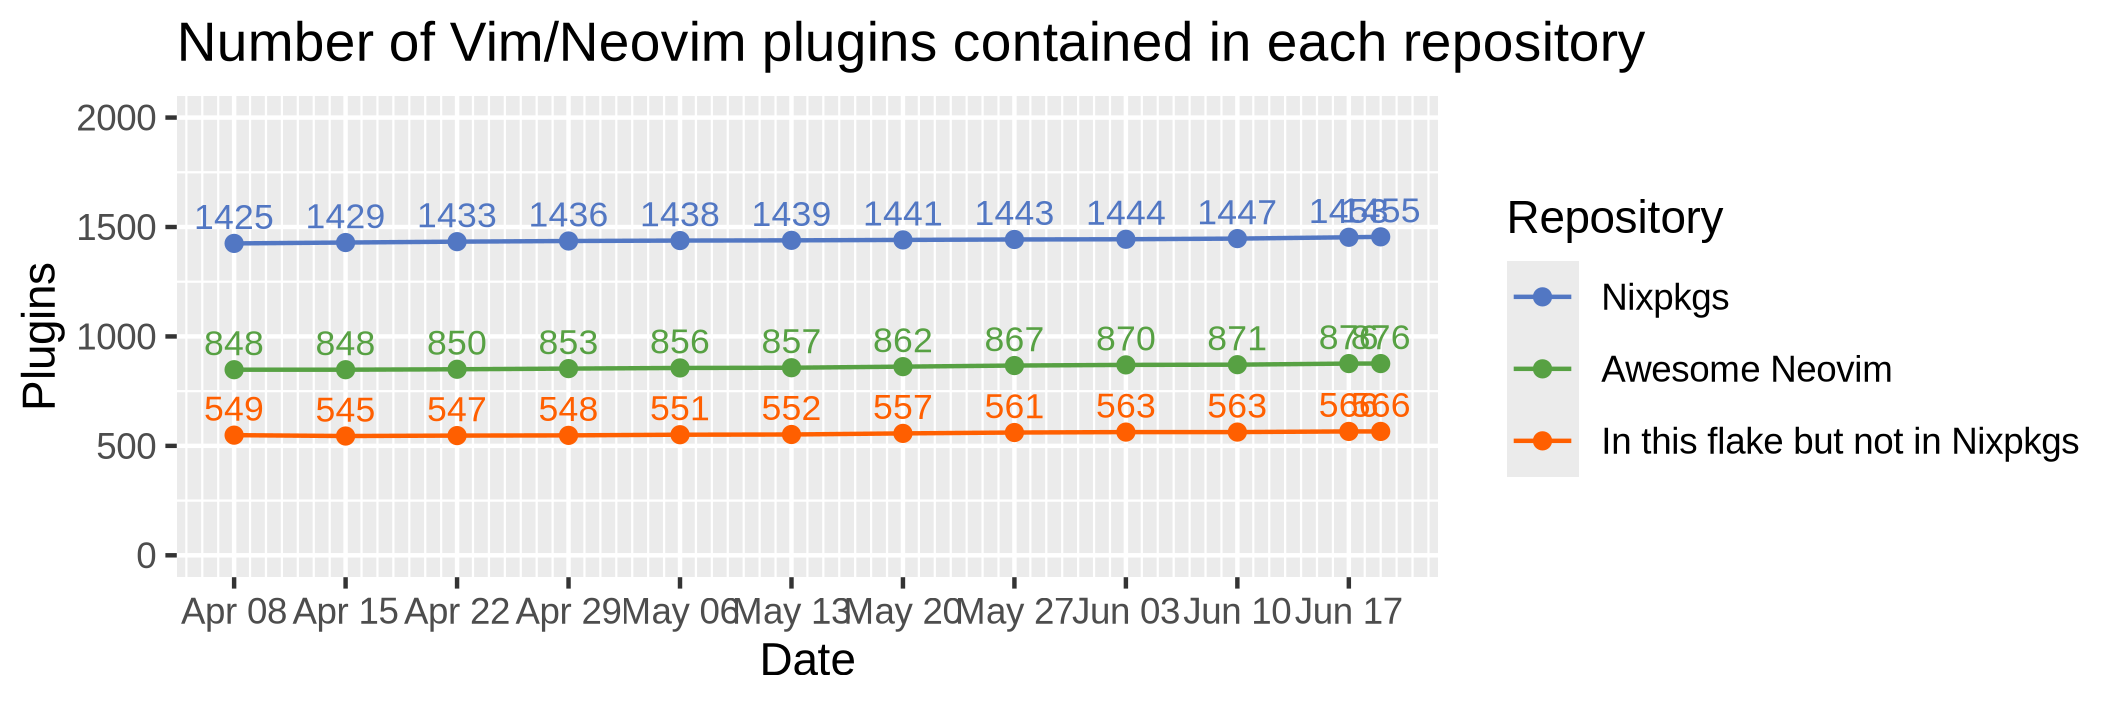
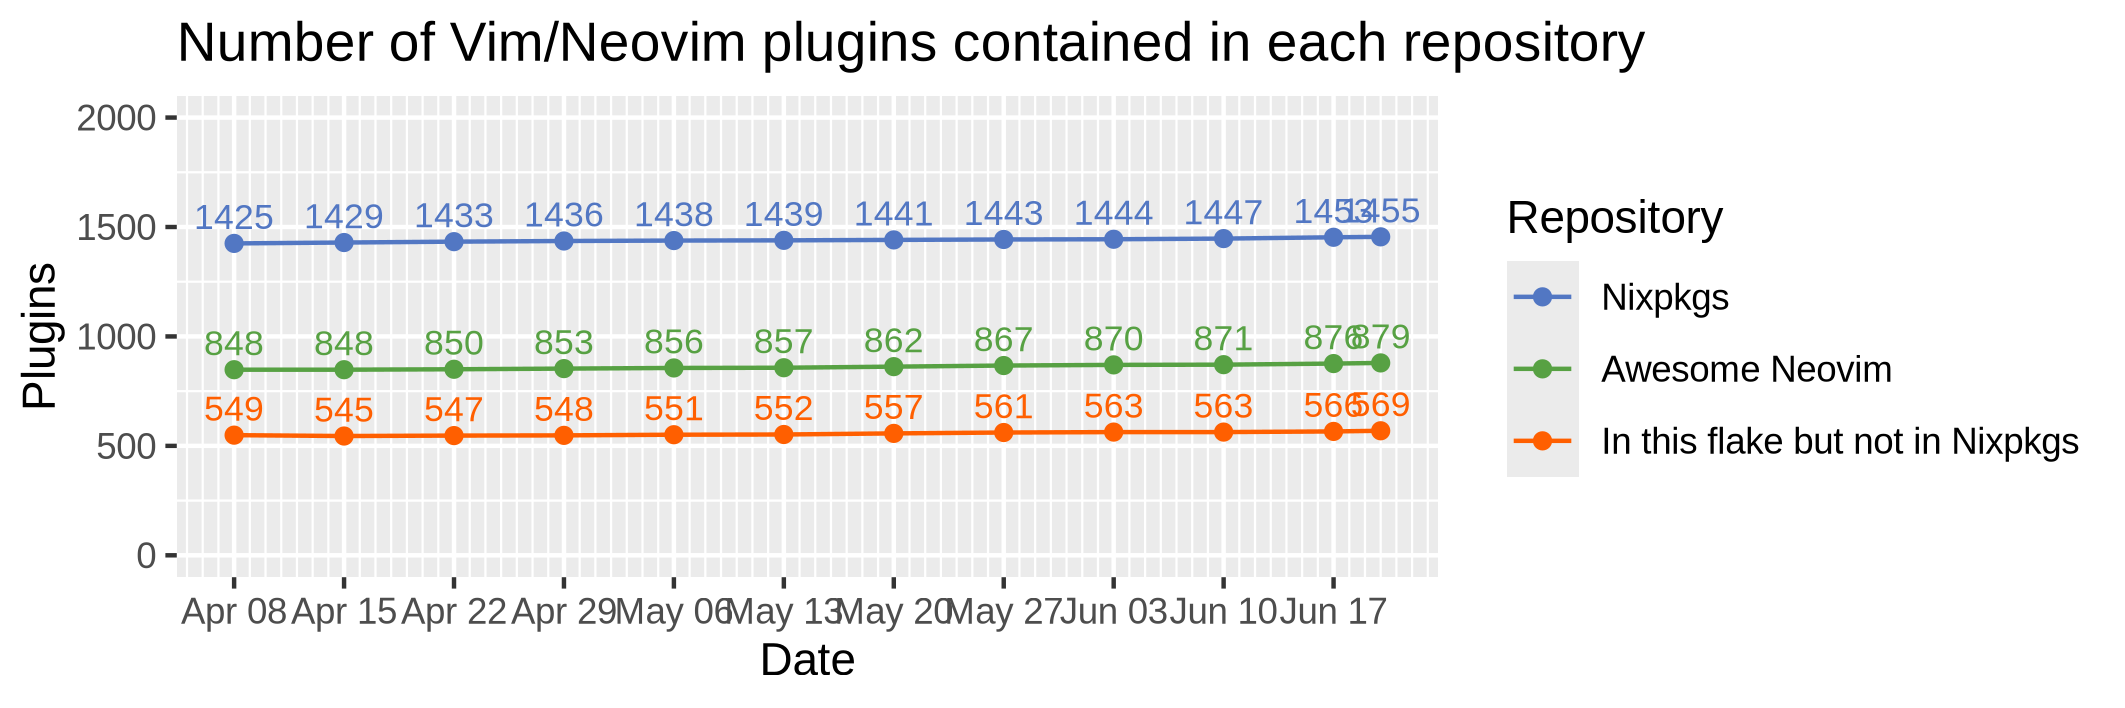
auto: update vim plugins

Changed region(s): [[0.1553, 0.435, 0.6833, 0.6215], [0.1242, 0.839, 0.6522, 0.9011], [0.1553, 0.2797, 0.6522, 0.3729]]

diff --git a/README.md b/README.md
@@ -8,7 +8,7 @@ Nix flake of Awesome Neovim plugins.
 
 [b1]: https://img.shields.io/github/actions/workflow/status/m15a/flake-awesome-neovim-plugins/check.yml?style=flat-square&logo=github&label=CI
 [b2]: https://github.com/m15a/flake-awesome-neovim-plugins/actions/workflows/check.yml
-[b3]: https://img.shields.io/badge/Awesome_Neovim_plugins-876-57A143?style=flat-square
+[b3]: https://img.shields.io/badge/Awesome_Neovim_plugins-879-57A143?style=flat-square
 [b4]: https://img.shields.io/endpoint?url=https://flakehub.com/f/m15a/flake-awesome-neovim-plugins/badge&style=flat-square
 [b5]: https://flakehub.com/flake/m15a/flake-awesome-neovim-plugins
 
